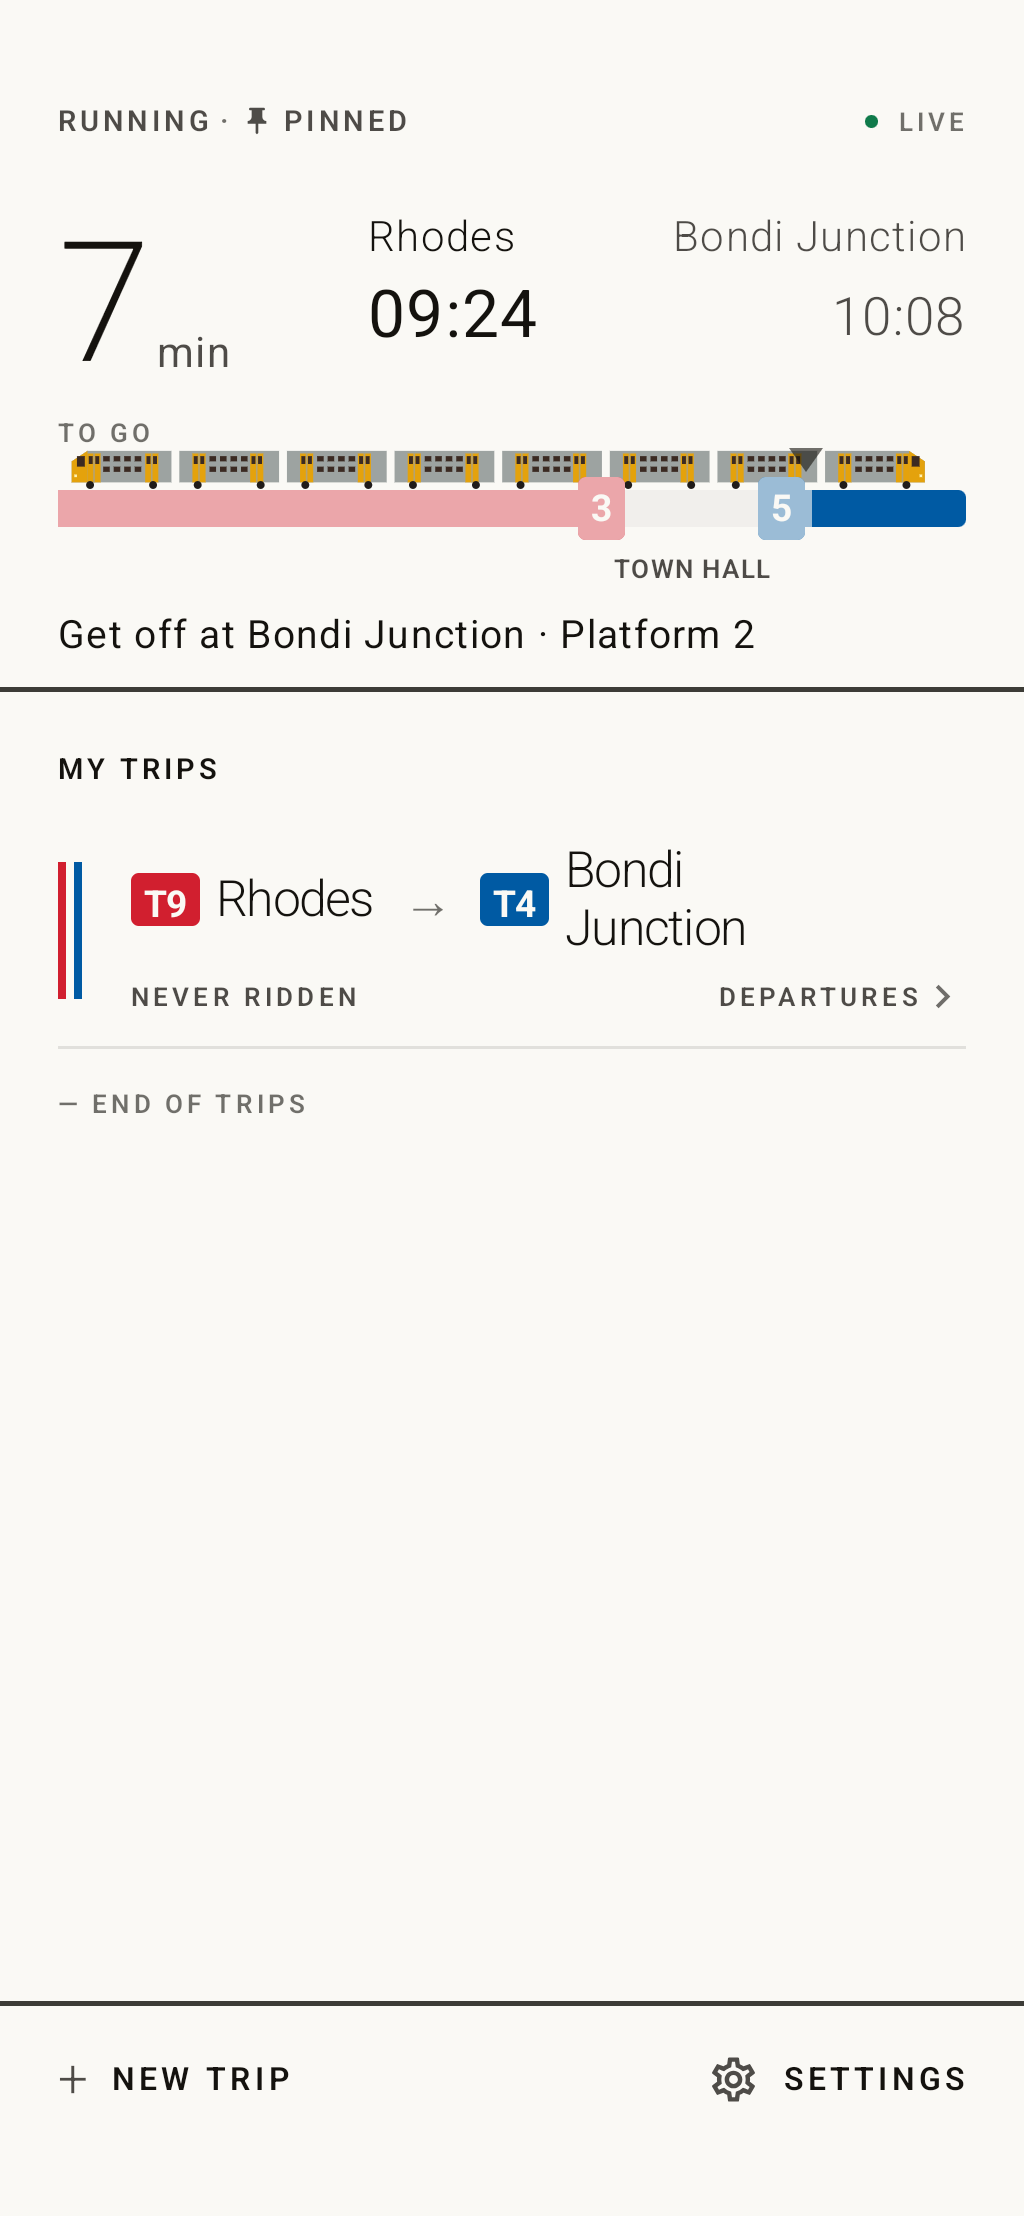
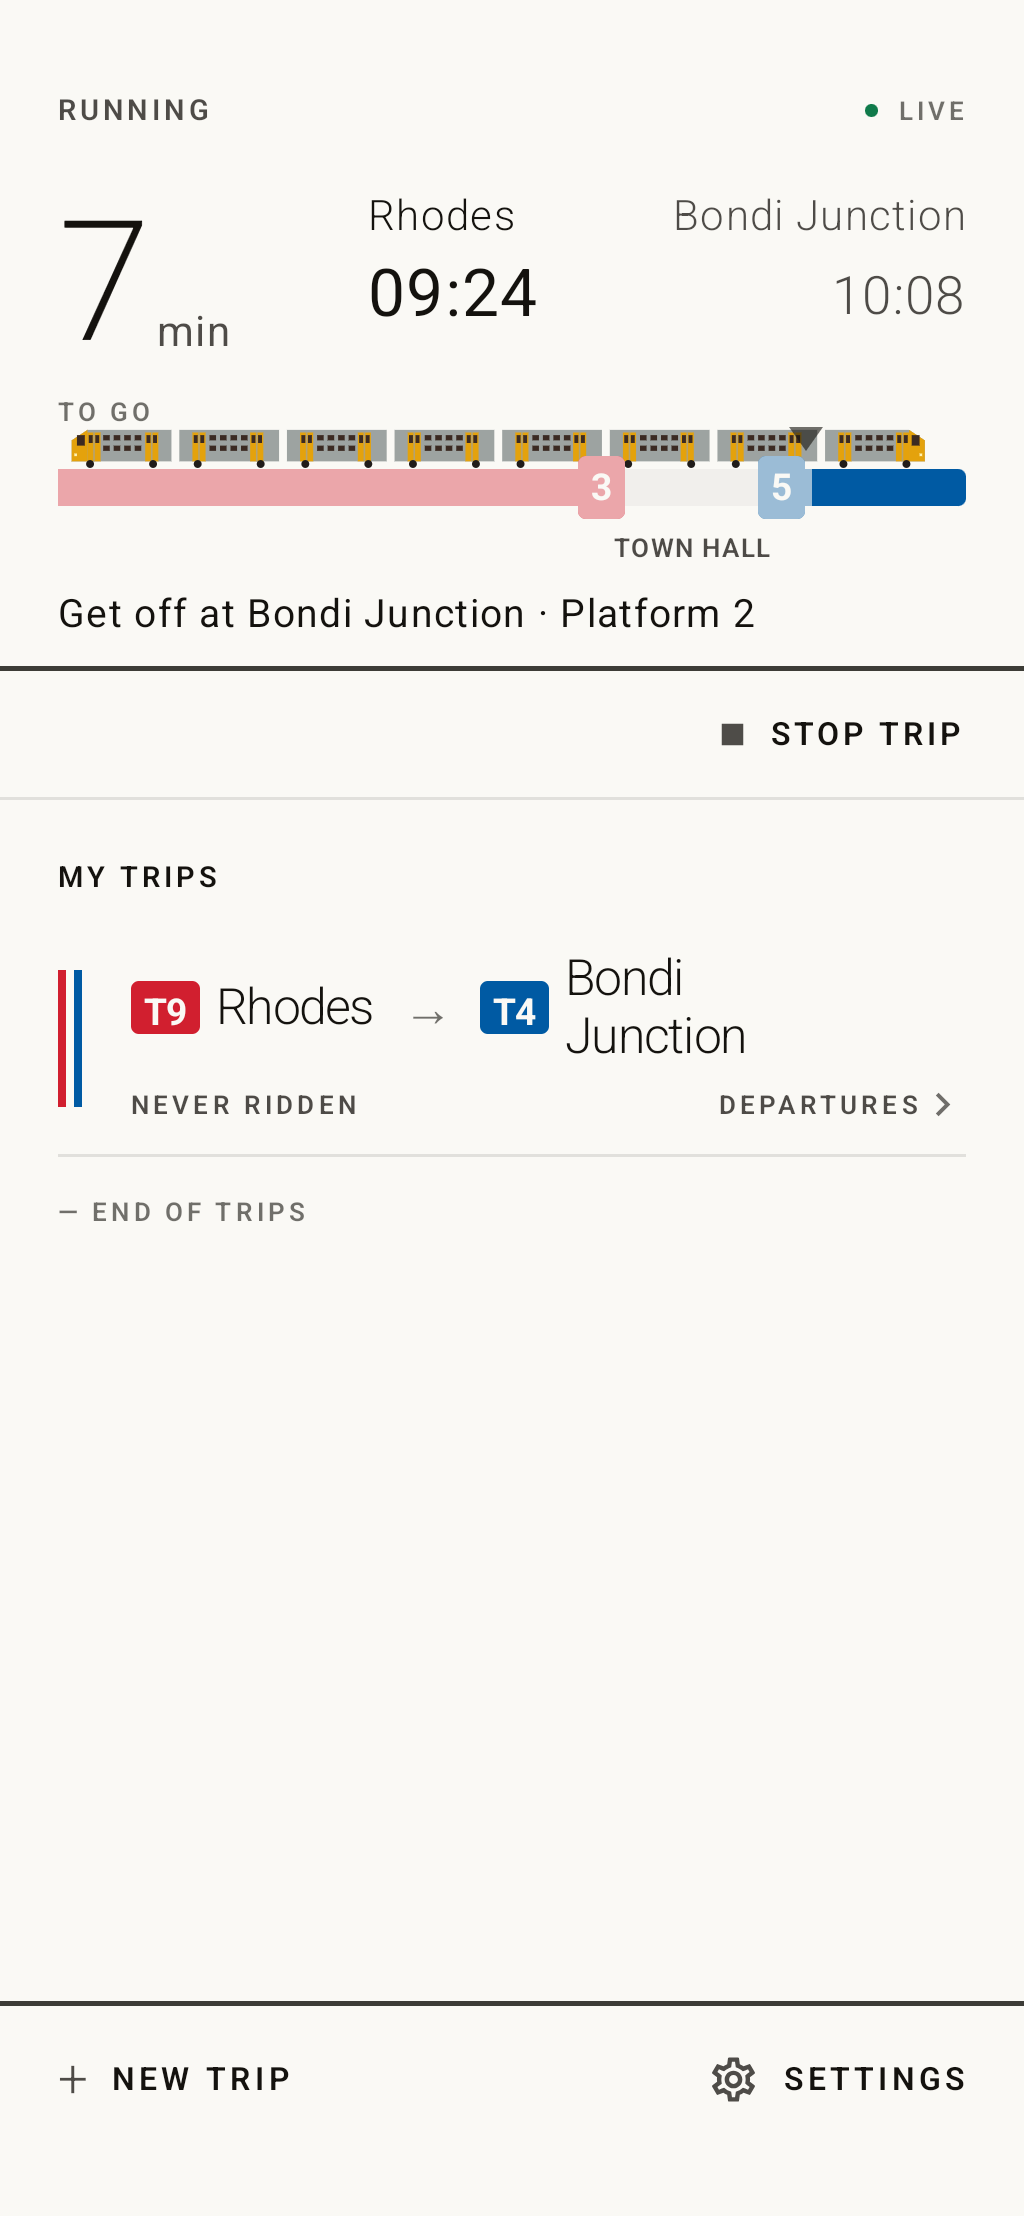
Android exemplars and contracts for the trip-control line
The Android line frames join assets/comps/latest; the now, deleting and
deleted Home frames and the C1 commute-feedback frames are recaptured with
the line and without PINNED. ui.md gains the Android notification's Stop
trip action and the started widget's service status; android-deviations.md
records the line's execution, the 360dp margin limit and the native
trip-over offer.

diff --git a/docs/contracts/android-deviations.md b/docs/contracts/android-deviations.md
@@ -13,6 +13,26 @@ This file records deliberate differences between the native Android app and the 
 - A journey whose first leg departs on the timetable while a later leg carries a realtime estimate paints in the live register on Android, where `journey.realtime` is true for an estimate on any leg, and reads `SCHEDULED` on web, which looks only at the departure the rider acts on. The 40 minute live horizon rule in [ui.md](ui.md#past-stale-and-exceptional-data) does not close the gap: its predicate reads the first leg's departure estimate, so such a row is left exactly as it is today at any lead (owner ruling, 2026-09-11).
 - Android stores user state in app-private atomic files and excludes it from cloud backup and device transfer. The native trip list is not capped at the web client’s ten-trip LRU, and each trip has the explicit native deletion menu described above.
 
+## Trip-control line
+
+- The line matches the round 3b Roboto exemplars at 412 dp to within a dp.
+  The question is 15 sp Light without the 0.5 sp tracking the app's body
+  style otherwise inherits. The actions carry the CSS .14em tracking, which
+  also follows the last letter. The glyphs are Material `Icons.Filled.Stop`
+  and `Icons.Filled.PlayArrow`, drawn at 16.5 dp and 15 dp in their 11 dp
+  slot because Material fills about half its box. The stop square is the
+  exemplar's 8 dp mark; the play triangle keeps Material's shape, 1 dp
+  narrower than the exemplar's. Both sit on the cap height.
+- Android keeps its 22 dp page margin at every width, where the web narrows
+  it to 18 px at 375 px and below, and the 360 exemplar assumes the narrow
+  margin. Below about 364 dp the guessed line's question cannot print whole
+  beside `STOP TRIP` and `CHANGE`, so it ellipsizes (`Going somewhere el…` at
+  360 dp). This is open for an owner ruling.
+- The trip-over offer keeps the native `Need to get back?  SHOW THE WAY BACK`
+  composition, which iOS shares, in place of the web's `Trip over` block. It
+  never claims `You’ve arrived`, so ruling 21 changes no Android copy. A
+  location-confirmed ending's sign reads `The journey has finished`.
+
 ## Home-screen widget
 
 - A Jetpack Glance widget (`SizeMode.Exact`, so names are fitted and bars
@@ -122,7 +142,10 @@ and its `-light` variant, the flag-on
 `android-board-390x844-now.png`, the Home/Board
 `-390x844-offline-retained-t9.png` frames, and the swipe-to-delete pair
 `android-home-390x844-deleting.png` (row dragged past the threshold) and
-`android-home-390x844-deleted.png` (row gone, bar offering `Undo`). `tools/shoot-android.sh` reproduces
+`android-home-390x844-deleted.png` (row gone, bar offering `Undo`), the
+trip-control line frames `android-home-390x844-{inferred,guessed-stress,started,started-after,startable,startable-ferry,leaves-later}.png`
+(`inferred`, `started`, `started-after` and `startable` with `-light`
+variants) and `android-detail-390x844-focused.png`, the `Stop trip` rail. `tools/shoot-android.sh` reproduces
 them, with the offline Board scrolled upward to reveal the retained service.
 The same states are checked at 412×732 and font scale 1.3.
 

diff --git a/docs/contracts/ui.md b/docs/contracts/ui.md
@@ -915,8 +915,10 @@ WidgetKit and Pixel launcher renderers.
   carry `N MIN LATE`; scheduled-only rows carry `SCHEDULED`.
 - **Lock screen (iOS, rectangular):** the tracker's three lines,
   `T9 leaves in 2:24`, `Go to Platform 1`, `<destination> about 10:08`.
-- **Pinned and under way:** the status line reads `PINNED` or
-  `RUNNING · PINNED`; once under way the widget shows journey detail's steps
+- **Started and under way:** a started trip's status line reads its
+  service's status as the smart header does, `RUNNING` before departure
+  included, with no pin (owner rulings 14 and 20, 2026-10-02); once under way
+  the widget shows journey detail's steps
   (`GET OFF`, `BOARD T4`, `ARRIVE`). A widget never shows `RUNNING LATE` or
   `Trip over`: its data is never fresh enough to claim either.
 - **Freshness:** every home-screen widget always shows the Live Activity's
@@ -989,7 +991,11 @@ left and approximate arrival at right, fixed in place; and a quiet proportional
 trip line underneath with one progress marker. No app header, repeated platform
 graphics or caption stacks. The OS owns the container, so Android's templates
 and iOS's Island decide the actual geometry. Platform-number boxes on the line
-are an optional visual follow-up, not part of the accepted baseline.
+are an optional visual follow-up, not part of the accepted baseline. The
+Android card carries one action, `Stop trip`, which the system draws as plain
+text without an icon under the card in every state (owner ruling 16,
+2026-10-02). It stops trip mode exactly as Home's `Stop trip` does, for the
+card's current journey only: a tap on a replaced or dismissed card is ignored.
 
 The board, home and detail calibration frames are listed below.
 `tools/check-settings-browser.js --frames assets/comps/latest` adds twelve
